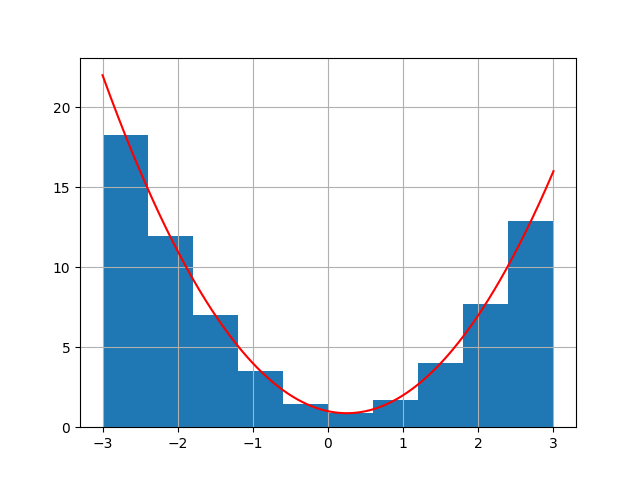
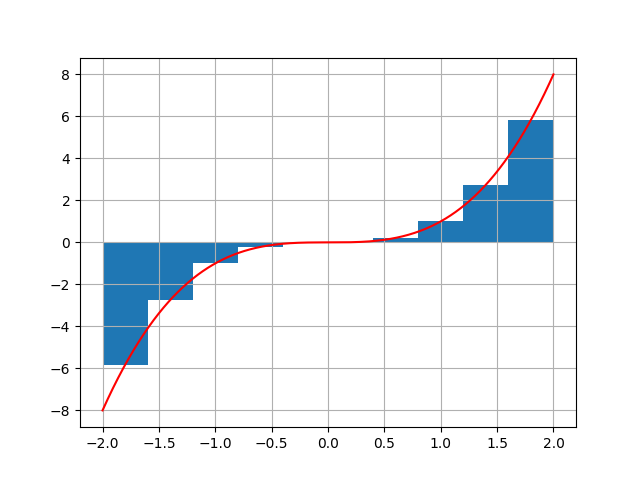
4

diff --git a/website/templates/base.html b/website/templates/base.html
@@ -7,30 +7,49 @@
     <meta name="viewport" content="width=device-width, initial-scale=1.0">
     <script src="https://cdn.jsdelivr.net/npm/bootstrap@5.0.2/dist/js/bootstrap.bundle.min.js" integrity="sha384-MrcW6ZMFYlzcLA8Nl+NtUVF0sA7MsXsP1UyJoMp4YLEuNSfAP+JcXn/tWtIaxVXM" crossorigin="anonymous"></script>
     <link href="https://cdn.jsdelivr.net/npm/bootstrap@5.0.2/dist/css/bootstrap.min.css" rel="stylesheet" integrity="sha384-EVSTQN3/azprG1Anm3QDgpJLIm9Nao0Yz1ztcQTwFspd3yD65VohhpuuCOmLASjC" crossorigin="anonymous">
-    <title>{% block title %}Home{% endblock %}</title>
+    <link rel="stylesheet" href="./static/styles.css">
+    <title>Home</title>
     <style>
-.container{
-    background-color: rgb(145, 130, 212);
-}
-.calculaotr_window{
-    width: 50%;
-    height: 20vw;
-    background-color: rgb(30, 171, 72);
-}
-button{
-    display: flex;
-}
-.wh{
-    width: 375px;
-}
-body {
-    background-color: rgb(52, 154, 197);
-}
 </style>
 </head>
 <body>
     <div calss="container">
-    {% block container %}{% endblock %}
+        <form method="post">
+            <div class="row">
+                <div class="col text-center"><h1>Oliczanie całki</h1></div>
+            </div>
+            <div class="row">
+                <div class="col calculaotr_window ">
+                        <div  class="col m-3 text-center"><label><input class="wh" name="funkcja" value='{{funkcja}}' methods="POST"></label></div>
+                        <div class="row">
+                            <div class="col-3 text-center mt-3"> <button type="submit" name="+" class="btn btn-dark">+</button></div>
+                            <div class="col-3 text-center mt-3"> <button type="submit" name="-" class="btn btn-dark">-</button></div>
+                            <div class="col-3 text-center mt-3"> <button type="submit" name="*" class="btn btn-dark">*</button></div>
+                            <div class="col-3 text-center mt-3"> <button type="submit" name="/" class="btn btn-dark">/</button></div>
+                        </div>
+                        <div class="row">
+                            <div class="col-3 text-center mt-3"> <button type="submit" name="^" class="btn btn-dark">^</button></div>
+                            <div class="col-3 text-center mt-3"> <button type="submit" name="sqrt" class="btn btn-dark">sqrt</button></div>
+                            <div class="col-3 text-center mt-3"> <button type="submit" name="(" class="btn btn-dark">(</button></div>
+                            <div class="col-3 text-center mt-3"> <button type="submit" name=")" class="btn btn-dark">)</button></div>
+                        </div>
+                        <div class="row">
+                            <div class="col-3 text-center mt-3"> <button type="submit" name="sin" class="btn btn-dark">sin</button></div>
+                            <div class="col-3 text-center mt-3"> <button type="submit" name="cos" class="btn btn-dark">cos</button></div>
+                            <div class="col-3 text-center mt-3"> <button type="submit" name="tan"class="btn btn-dark">tan</button></div>
+                            <div class="col-3 text-center mt-3"> <button type="submit" name="ctan" class="btn btn-dark">ctan</button></div>
+                        </div>
+                        <div class="row">
+                            <div class="col-3 text-center mt-3"> <button type="submit" name="x" class="btn btn-dark">x</button></div>
+                            <div class="col-3 text-center mt-3"> <button type="submit" name="draw" class="btn btn-dark">draw</button></div>
+                        </div>
+                </div>
+                <div class="col">
+                    <label for="customRange2" class="form-label">Ustaw podział przedziału</label>
+            <input type="range" class="form-range" min="1" max="10000" id="customRange2">
+                </div>
+            </div>
+        </form>
     </div>
 </body>
 </html>

diff --git a/website/templates/Home.html b/website/templates/Home.html
@@ -1,5 +1,8 @@
 {% extends "base.html" %} 
 {% block title %}Home{% endblock %}
+<script src="https://cdn.jsdelivr.net/npm/bootstrap@5.0.2/dist/js/bootstrap.bundle.min.js" integrity="sha384-MrcW6ZMFYlzcLA8Nl+NtUVF0sA7MsXsP1UyJoMp4YLEuNSfAP+JcXn/tWtIaxVXM" crossorigin="anonymous"></script>
+<link href="https://cdn.jsdelivr.net/npm/bootstrap@5.0.2/dist/css/bootstrap.min.css" rel="stylesheet" integrity="sha384-EVSTQN3/azprG1Anm3QDgpJLIm9Nao0Yz1ztcQTwFspd3yD65VohhpuuCOmLASjC" crossorigin="anonymous">
+<link rel="stylesheet" href="./static/styles.css">
 {% block container %}
 <form method="post">
     <div class="row">

diff --git a/website/views.py b/website/views.py
@@ -1,56 +1,99 @@
 from flask import Blueprint, render_template, request
-from website import ploting, value
+from math import sqrt, exp, pi, e, sin, cos, tan
+import matplotlib.pyplot as plt
+import matplotlib
+import numpy as np
+import os
+import threading
+matplotlib.use('agg')
+
 
 views = Blueprint('views',__name__)
 
+symbols = ['x', '+', '-', '*', '/', '^', 'sqrt', '(', ')', 'sin', 'cos', 'tg', 'ctg']
+def value(f, x_value):
+    if f is None:
+        return None
+    for x in symbols:
+        if x not in symbols:
+            return KeyError("Zle wpisany ciag znakow")
+    f = f.replace('^', '**')
+    f = f.replace('ctan', '1/tan')
+    x = x_value
+    try: value = eval(f)
+    except: value = None
+    return value
+
+def ploting(a, b, n, f):
+    x = np.linspace(a, b, 10*3)
+    y = np.vectorize(value)(f, x)
+    sections = np.linspace(a, b, n + 1)
+    sec = []
+    x_hist = []
+    y_hist = []
+    plt.clf()
+    for i in range(len(sections)):
+        if i < len(sections) - 1:
+            sec.append([c := sections[i], d := sections[i + 1]])
+            x_hist.append((d + c) / 2)
+            y_hist.append(value(f, (d + c) / 2))
+        else:
+            pass
+    calka = sum(y_hist)
+    plt.bar(x_hist, y_hist, width=(b - a) / n)
+    plt.plot(x, y, color="red")
+    plt.grid(True)
+    plt.savefig("Technologie Informacyjne\Strona\Strona_Mazi\website\static\\function.png")
+    return abs(calka)
+
 @views.route('/',methods = ['GET','POST'])
 def home():
-    global funkcja
+    global funkcja 
     funkcja = "2*x^2-x+1"
     if request.method == 'POST':
         funkcja = request.form.get("funkcja")
     if '+' in request.form:
         funkcja += '+'
-        return render_template('Home.html',funkcja = funkcja)
+        return render_template('base.html',funkcja = funkcja)
     elif '-' in request.form:
         funkcja += '-'
-        return render_template('Home.html',funkcja = funkcja)
+        return render_template('base.html',funkcja = funkcja)
     elif '*' in request.form:
         funkcja += '*'
-        return render_template('Home.html',funkcja = funkcja)
+        return render_template('base.html',funkcja = funkcja)
     elif '/' in request.form:
         funkcja += '/'
-        return render_template('Home.html',funkcja = funkcja)
+        return render_template('base.html',funkcja = funkcja)
     elif 'sqrt' in request.form:
         funkcja += 'sqrt'
-        return render_template('Home.html',funkcja = funkcja)
+        return render_template('base.html',funkcja = funkcja)
     elif '^' in request.form:
         funkcja += '^'
-        return render_template('Home.html',funkcja = funkcja)
+        return render_template('base.html',funkcja = funkcja)
     elif 'sin' in request.form:
         funkcja += 'sin'
-        return render_template('Home.html',funkcja = funkcja)
+        return render_template('base.html',funkcja = funkcja)
     elif 'cos' in request.form:
         funkcja += 'cos'
-        return render_template('Home.html',funkcja = funkcja)
+        return render_template('base.html',funkcja = funkcja)
     elif 'tan' in request.form:
         funkcja += 'tan'
-        return render_template('Home.html',funkcja = funkcja)
+        return render_template('base.html',funkcja = funkcja)
     elif 'ctan' in request.form:
         funkcja += 'ctan'
-        return render_template('Home.html',funkcja = funkcja)
+        return render_template('base.html',funkcja = funkcja)
     elif 'x' in request.form:
         funkcja += 'x'
-        return render_template('Home.html',funkcja = funkcja)
+        return render_template('base.html',funkcja = funkcja)
     elif '(' in request.form:
         funkcja += '('
-        return render_template('Home.html',funkcja = funkcja)
+        return render_template('base.html',funkcja = funkcja)
     elif ')' in request.form:
         funkcja += ')'
-        return render_template('Home.html',funkcja = funkcja)
+        return render_template('base.html',funkcja = funkcja)
     elif 'draw' in request.form:
         print(funkcja)
-        wartosc = ploting(-3,3,10,funkcja)
-        print(wartosc)
-        return render_template('Home.html',funkcja = funkcja)
-    return render_template('Home.html',funkcja=funkcja)
+        print(value(funkcja,0))
+        print(ploting(-2,2,10,funkcja))
+        return render_template('base.html',funkcja = funkcja)
+    return render_template('base.html',funkcja=funkcja)

diff --git a/website/__init__.py b/website/__init__.py
@@ -49,4 +49,4 @@ def ploting(a, b, n, f):
     return calka
 
 if __name__ == "__main__":
-    ploting(-pi/2, pi/2, 10, f:='cos(x)')
+    ploting(-pi/2, pi/2, 10, f:='cos(x^2)')

diff --git a/main.py b/main.py
@@ -1,5 +1,6 @@
 from flask import Flask, render_template, Blueprint, request
 from website import create_app
+
 app = create_app()
 
 if __name__ == '__main__':
